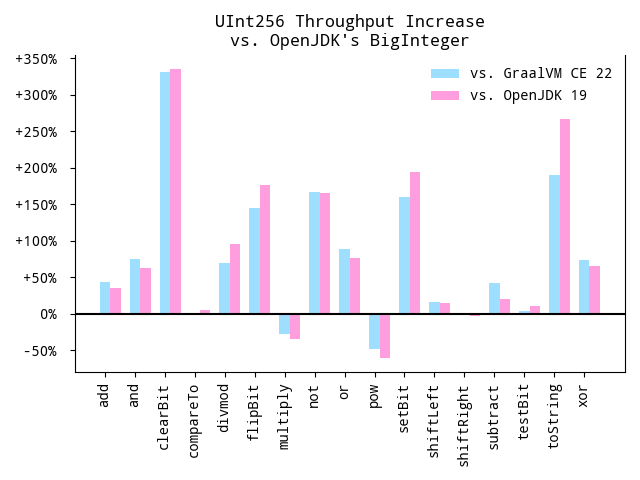
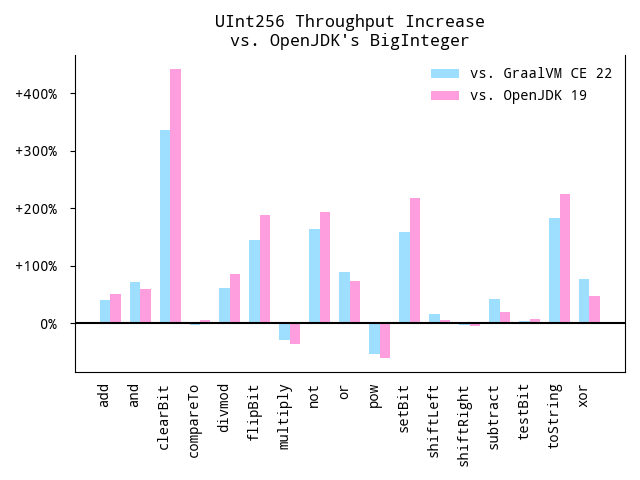
Bunch of benchmarking stuff

diff --git a/split-graph.py b/split-graph.py
@@ -47,33 +47,52 @@ if __name__ == '__main__':
 
   rc('font', family=FONT)
 
-  (fig, ax) = plt.subplots()
+  (fig, (axhi, axlo)) = plt.subplots(2, 1, sharex=True)
 
-  ax.tick_params(labeltop=False, top=False, bottom=False)
+  for ax in (axhi, axlo):
+    ax.spines['bottom'].set_visible(False)
+    ax.spines['top']   .set_visible(False)
+
+  axhi.tick_params(labeltop='off', top='off', bottom='off')
+
+  axlo.set_ylim((mmin, 50))
+  axhi.set_ylim((200,  mmax))
 
   rects = []
   for (i, (tag, xs)) in enumerate(sorted(data.items(), key=lambda t: t[0])):
     color = next(colors)
-    r     = ax.bar(ind + (i * width), list(zip(*xs))[1], width, color=color)
+    r     = axlo.bar(ind + (i * width), list(zip(*xs))[1], width, color=color)
+    axhi.bar(ind + (i * width), list(zip(*xs))[1], width, color=color)
     rects.append((r, tag))
 
-  ax.set_title("UInt256 Throughput Increase\nvs. OpenJDK's BigInteger")
-  labels = list(zip(*list(data.values())[0]))[0]
-  ax.set_xticks(ind, top=False)
-  ax.set_xticklabels(labels, rotation=90)
-  ax.tick_params(axis='x', top=False, labeltop=False)
+  axhi.set_title("UInt256 Throughput Increase\nvs. OpenJDK's BigInteger")
+  axlo.set_xticks(ind + width / 2)
+  axlo.set_xticklabels([k for (k, _) in list(data.values())[0]], rotation=90)
 
   def yformat(v, pos):
     return '%s%d%% ' % ('+' if 0 < v else '', v)
 
-  ax.yaxis.set_major_formatter(ticker.FuncFormatter(yformat))
-  ax.spines[['top']].set_visible(False)
+  for ax in (axlo, axhi):
+    ax.yaxis.set_major_formatter(ticker.FuncFormatter(yformat))
+    ax.tick_params(axis='y', left='off')
 
-  ax.legend(
-    *zip(*tuple((r[0], l) for (r, l) in rects)),
+  axlo.tick_params(axis='x', bottom='off', top=False)
+  axhi.legend(
+    *list(zip(*tuple((r[0], l) for (r, l) in rects))),
     frameon=False)
 
-  ax.axhline(0, color='k')
+  axlo.axhline(0, color='k')
+  axlo.axhline(50, linestyle=':', color='silver')
+  axhi.axhline(200, linestyle=':', color='silver')
+
+  d  = .015
+  kw = dict(transform=axhi.transAxes, color='k', clip_on=False)
+  axhi.plot((-d, +d),       (-d, +d), **kw)
+  axhi.plot((1 - d, 1 + d), (-d, +d), **kw)
+
+  kw.update(transform=axlo.transAxes)
+  axlo.plot((-d, +d),       (1 - d, 1 + d), **kw)
+  axlo.plot((1 - d, 1 + d), (1 - d, 1 + d), **kw)
 
   plt.tight_layout()
   plt.savefig('out.png', transparent=True)

diff --git a/biginteger-performance.md b/biginteger-performance.md
@@ -1,0 +1,316 @@
+<p align="right">
+Moe Aboulkheir<br />
+2023-01-14<br/>
+<a href="https://github.com/nervous-systems/java-unsigned-integers"><img width="37.5px" src="static/github-mark.png"/></a>
+
+</p>
+
+# Performance Pathologies in OpenJDK's BigInteger Implementation
+
+Many and many a year ago (in a kingdom by the sea), I wrote some fixed-width
+integer types without sign, with alacrity.
+
+In Java, nominally for a
+[Clojure Ethereum VM](https://github.com/nervous-systems/sputter)
+project, though completely unnecessary &mdash; I was on a work trip, it was the
+weekend, and it was either that or the minibar. I did some benchmarking, and I
+got some pretty ridiculous numbers, against what were two most recent major
+OpenJDK versions at the time:
+
+![graph](static/uint256.png)
+
+N.B. The
+[project](https://github.com/nervous-systems/java-unsigned-integers) includes
+`UInt128` and `UInt256`, however these are trivial wrappers around a
+general-purpose
+[Arrays.java](https://github.com/nervous-systems/java-unsigned-integers/blob/master/juint/src/main/java/io/nervous/juint/Arrays.java),
+which can operate on arbitrarily wide integers, as long as there is an
+upper-bound on their length &mdash; adding smaller or larger `uint` types would not
+be a problem.
+
+## About Those Benchmarks
+
+Each bar is an aggregate of around 10 JMH microbenchmarks (170 altogether) per
+operation, performed with numbers of different magnitudes. With the generosity
+of a dying aunt, I only % 2<sup>256</sup> the `BigInteger`instance when it's known that
+it's exceeeded the desired capacity &mdash; mostly not how things work in
+real life, when dealing with arbitrary values. So, these are worst-case
+speedups.
+
+ - Almost every operation is twice as fast as OpenJDK 8.
+ - `UInt256`'s concomitants of the slowest `BigInteger` operations (`clearBit` and `toString`), do not benefit from the fact that the width of the number
+ is fixed.  Something else is going on.
+ - The only cases where `BigInteger` is faster are due to the use of intrinsics,
+   and even then, it's basically getting nowhere.
+
+ ### Updated Benchmarks
+
+ I'd been meaning to write an article like this for a while, so after 5 years I re-ran
+ the benchmarks against a recent GraalVM (since that's the JVM I was using), and OpenJDK 19.
+
+ ![graph](static/uint256-2023.png)
+
+Basically everything is at OpenJDK 9 levels, except the intrinsics are faster.
+Let's take a tour of the source of `UInt256` and OpenJDK 8 and 19's `BigInteger`
+to see if we can't get a handle on some of these larger discrepancies.
+
+# `clearBit`
+
+Here's my `UInt256.clearBit`
+
+```java
+public final class UInt256 extends UInt<UInt256> {
+...
+  public UInt256 clearBit(final int bit) {
+    if(bit < 0)
+      throw new ArithmeticException("Negative bit address");
+    return ((ints.length <= bit >>> 5) ? this :
+            new UInt256(Arrays.clearBit(ints, bit)));
+  }
+}
+```
+
+(`ints` is a little endian array of integers, with no leading zeroes).
+
+The
+only logic here is that we don't do any work if the bit falls outside the bounds
+of `ints`.  `Arrays.clearBit`:
+
+```java
+final class Arrays {
+...
+  static int[] clearBit(final int[] a, final int bit) {
+    final int alen = a.length;
+    final int i    = alen - (bit >>> 5) - 1;
+    final int v    = a[i] & ~(1 << (bit & 31));
+
+    if(v == a[i])
+      return a;
+
+    if(i != 0 || v != 0) {
+      final int[] out = copyOf(a, alen);
+      out[i]          = v;
+      return out;
+    }
+    return stripLeadingZeroes(a, 1);
+  }
+}
+```
+
+## Trivial Optimizations
+ - Return the unmolested array if the bit is already clear.
+ - If it's not the zeroth int, or clearing the bit won't zero the int, don't
+   bother looking for leading zeroes.
+ - Otherwise, remove the first int without inspecting it (second arg to
+   `stripLeadingZeroes`), as we know it's zero, and scan forward for the first
+   non-zero value before copying:
+
+```java
+final class Arrays {
+...
+  static int[] stripLeadingZeroes(final int[] ints, int strip) {
+    final int len = ints.length;
+
+    for(; strip < len && ints[strip] == 0; strip++)
+      ;
+    return strip == 0 ? ints : copyOfRange(ints, strip, len);
+  }
+}
+```
+
+I'm _dying_ to know what OpenJDK 8 is doing.
+
+```java
+public class BigInteger extends Number implements Comparable<BigInteger> {
+    ...
+    public BigInteger clearBit(int n) {
+        if (n < 0)
+            throw new ArithmeticException("Negative bit address");
+
+        int intNum = n >>> 5;
+        int[] result = new int[Math.max(intLength(), ((n + 1) >>> 5) + 1)];
+
+        for (int i=0; i < result.length; i++)
+            result[result.length-i-1] = getInt(i);
+
+        result[result.length-intNum-1] &= ~(1 << (n & 31));
+
+        return valueOf(result);
+    }
+}
+```
+
+If the bit is out of bounds, and I'm reading right, it's _growing_ the integer
+array to a size bounded by 2<sup>32</sup> / 32 (approx 10<sup>8</sup>, the biblical lower
+bound on the number of angels[^1]), to
+"clear" a bit which wouldn't otherwise exist? Then stripping all of the leading
+zeroes in the `int[]` constructor used by `valueOf`, resulting in exactly the
+same number! Absolutely classic stuff. I was keen to see how OpenJDK 19 had sped
+this up, but it's doing _exactly_ the same thing! The speedup must come from
+some ancillary method/s (e.g. `getInt`, `valueOf`, etc.), overall runtime
+optimizations, or some combination. Pandaemonium.  Let's take a look at throughput graph
+with `clearBit` thrown out:
+
+![Graph](static/uint256-no-clear.png)
+
+[^1]: Proof in [Revelation 5:11](https://bible.bibleask.org/#/search/Revelation%205:11/KJV).
+
+# `setBit`
+
+While not as dramatic, my `setBit` implementation is 200% faster.  Let's take a look
+at what's happening with `BigInteger`.
+
+```java
+public class BigInteger extends Number implements Comparable<BigInteger> {
+...
+    public BigInteger setBit(int n) {
+        if (n < 0)
+            throw new ArithmeticException("Negative bit address");
+
+        int intNum = n >>> 5;
+        int[] result = new int[Math.max(intLength(), intNum+2)];
+
+        for (int i=0; i < result.length; i++)
+            result[result.length-i-1] = getInt(i);
+
+        result[result.length-intNum-1] |= (1 << (n & 31));
+
+        return valueOf(result);
+    }
+}
+```
+
+This is a little goofy &mdash; if the corresponding integer (`n >>> 5`) exists
+in the integer array, why not check if the bit is _already_ set before doing any
+allocating? Compare:
+
+```java
+final class Arrays {
+...
+  static int[] setBit(final int[] a, final int bit) {
+    final int i    = bit >>> 5;
+    final int alen = a.length;
+
+    if(i <= alen - 1) {
+      final int j = alen - i - 1;
+      final int v = a[j] | 1 << (bit & 31);
+      if(v == a[j])
+        return a;
+      final int[] out = copyOf(a, alen);
+      out[j]          = v;
+      return out;
+    }
+
+    final int[] out = new int[i + 1];
+    System.arraycopy(a, 0, out, out.length - alen, alen);
+
+    out[0] = 1 << (bit & 31);
+    return out;
+  }
+}
+```
+
+# `flipBit`
+
+In general, there are some speedups to be had by closely coupling the
+zero-stripping code with the array arithmetic, as we often know accidentally
+(e.g. if there's a carry left over), or with a cheap check, whether we need to
+scan for leading zeroes or not (as we saw with `clearBit`.  We use this to our advantage in `flipBit`, also, and gain a `150%+` speedup:
+
+```java
+final class Arrays {
+...
+  static int[] flipBit(final int[] a, final int bit) {
+    final int i    = bit >>> 5;
+    final int alen = a.length;
+
+    if(i < alen - 1) {
+      final int[] out = copyOf(a, alen);
+      final int j     = alen - i - 1;
+      out[j]         ^= (1 << (bit & 31));
+      return out;
+    }
+
+    final int[] out = new int[i + 1];
+    System.arraycopy(a, 0, out, out.length - alen, alen);
+
+    return (out[0] ^= (1 << (bit & 31))) == 0 ? stripLeadingZeroes(out, 1) : out;
+  }
+}
+```
+
+This method could be further optimized. We also get a marginal gain in
+`UInt256.flipBit`, as we can ignore bits which fall out of bounds, though this
+wouldn't be exercised by the benchmarks. Anyway, enough with the bits. Let's
+take a look at `toString`.
+
+# `toString`
+
+`toString` accepts a radix in which to represent the number, so it does a bunch
+of `divideAndRemainder` calls, and despite both implementing Knuth's Algorithm
+D, division is substantially faster in `UInt256`, which probably accounts for a
+large degree of the disparity.
+
+```java
+public abstract class UInt<T extends UInt>
+  extends Number
+  implements Comparable<T> {
+  ...
+  public final String toString(int radix) {
+    if(isZero())
+      return "0";
+
+    if(radix < Character.MIN_RADIX || Character.MAX_RADIX < radix)
+      radix = DEFAULT_RADIX;
+
+    if(ints.length == 1)
+      return Integer.toUnsignedString(ints[0], radix);
+    if(ints.length == 2)
+      return Long.toUnsignedString(((ints[0] & LONG) << 32) | (ints[1] & LONG), radix);
+
+    return StringUtil.toString(ints, radix);
+  }
+}
+```
+
+I think these length checks, absent in `BigInteger` probably account for the
+rest, in the lower-magnitude test cases. `BigInteger` immediately falls back to
+Schoenhage radix conversion if the number within some range (2<sup>256</sup> is
+comfortably within this range), which is what `StringUtil.toString` does, above.
+Anything we can do to avoid that'll be a big win.
+
+# Other Fixed-width Integer Implementations
+
+Someone recently pointed me at [Apache Tuewni's UInt256
+implementation](https://github.com/apache/incubator-tuweni/blob/main/units/src/main/java/org/apache/tuweni/units/bigints/UInt256.java).
+It looked a little eccentric, but I wanted to benchmark it regardless.  I should have
+broken the Y-axis here also, but I lack the energy of my 33 year old self.
+
+![graph](static/uint256-tuweni.png)
+
+Unlike [java-unsigned-integers](https://github.com/nervous-systems/java-unsigned-integers) (the project containing my implementation of `UInt256`, etc.), Tuweni's `UInt256` is less
+concerned about genericity, and performs arithmetic directly in its class, rather than
+deferring to something like `Arrays.java` as shown above.  This means its loops, e.g.:
+
+```java
+public final class UInt256 implements UInt256Value<UInt256> {
+  ...
+  public UInt256 xor(UInt256 value) {
+    int[] result = new int[INTS_SIZE];
+    for (int i = INTS_SIZE - 1; i >= 0; --i) {
+      result[i] = this.ints[i] ^ value.ints[i];
+    }
+    return new UInt256(result);
+  }
+}
+```
+
+are trivial to unroll, and it seems unconcerned, generally, with leading zeroes.
+This comes at some cost &mdash; if you wanted to implement
+`UInt512`, you'd have to copy and paste all of this code.  Although, I'll happily
+take some 20%-50% losses along with some 400%-600% gains.
+
+Thanks for reading.  FIN.
+<p align="center">
+<a href="https://github.com/nervous-systems/java-unsigned-integers"><img width="100px" src="static/github-mark.png"/></a>
+</p>
